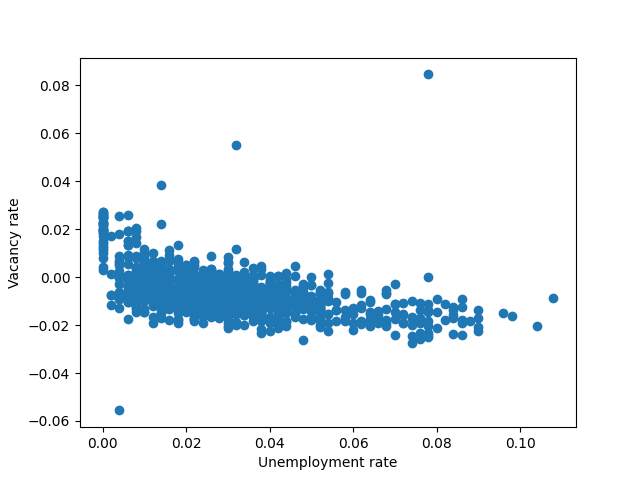
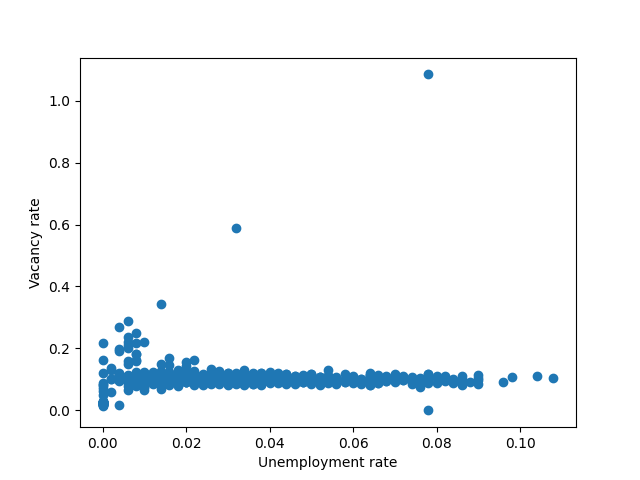
positive or 0 vacancies

diff --git a/models/BAM.py b/models/BAM.py
@@ -377,6 +377,7 @@ class BAM_base:
                 Because they can apply only to one firm per round (firm with highest) wage, they may remain unemployment although they are willing to work.
                 """ 
                 if len(f_empl) > 0: # if there are firms that have open vacancies, search and match begins
+                    vac_to_update = vac.copy() # initialize new numpy array in order to update vacancies of firms during the hiring process
 
                     """
                     Unemployed Households visit M random firms and try to sign a contract with the firm offering the highest wage out of the chosen subsample.
@@ -422,10 +423,10 @@ class BAM_base:
                             w_max = max(wages_chosen_firms)
                             f_max_id = appl_firm[wages_chosen_firms.index(w_max)] # id of the firm that offered highest wage
 
-                            current_vac = vac[f_max_id - 1] # extract current number of vacancies of firm that offers the highest wage
+                            current_vac = vac_to_update[f_max_id - 1] # extract current number of vacancies of firm that offers the highest wage
                             
                             if current_vac > 0:
-                                vac[f_max_id - 1] = current_vac - 1 # update vacancies of firm that just hired HH j
+                                vac_to_update[f_max_id - 1] = current_vac - 1 # update vacancies of firm that just hired HH j
                                 
                                 # update labor market variables
                                 is_employed[j-1] = True # updateEmploymentStatus
@@ -1083,26 +1084,10 @@ class BAM_base:
                 """ 
                 TO DO:
 
-                Consumption market
-                -  # NO UNEMPLYOMENT PAYMENT ??!!
-                - Qr set to 0 as soon everything is sold -> in the formulas !!!!
-                - if bankrupt, remove goods_purchased.. 
-                - firing worker if w_pay not enough
-                
-                Qs[f] = 0 # resetQtySold
-                Qr[f] = Qp[f] - Qs[f] # setQtyRemaining: Initialize the remaining quantity by subtracting the quantity sold (currently 0, since goods market did not open yet)
-                """
-
-                """
-                General:
-                - no HH income Y
-                - Y should be Qp, Q_des = Y_d and W_pay = W (book notation)
-                - when is wage bill subtracted ??!!
-                - in the end: check which "updating lists of each market" are really needed in the end ..  (go through everything step by step for t = 1 (&t=2))
-                - initial entry: Ld = average ??!!
-                - resetting all key lists in beginning of each market ??
-
-                - vacancies not discrete -> look weird
+                    
+                BAM plus:
+                -  build BAM_plus and see if more firms bankrupt then
+                -  dafür: class markets => each market as a function s.t. when fixing bugs in markets not have to do it twce for each model ..
 
                 Computationally more efficient
                 - using only numpy arrays: never use append and no for loops inside for loops

diff --git a/main.py b/main.py
@@ -24,24 +24,23 @@ Simulating a simple macro model with 3 Monte carlo replications. Plots are saved
 #print(toymodel_simulation)
 
 #################################################################################################
-# Simulating the BAM base model by Delli Gatti (2011)
+# Simulating the BAM base model(s) by Delli Gatti (2011)
 #################################################################################################
 
-""" intial Parameters to be estimated later"""
-#parameters = {'Nh':500, 'Nf':100, 'Nb':10, 'T':4, 
-#              'Z':2, 'M':4, 'H':2, 'H_eta': 0.1, 'H_rho':0.1, 'H_phi':0.01, 'h_xi':0.05,
-#              'c_P':1, 'c_R':0.5}
-# 'Z':2 im Buch -> bei ihm 3 !!!
-#BAM_old = BAM_base_nonrobust(MC = 1, parameters=parameters, plots=True)
-#BAM_simulation = BAM_old.simulation()
-#print(BAM_simulation)
-
-""" simulate the base model"""
+""" 
+Simulating the base model and the plus version two times (MC = 2).
+Two different kind of plots are saved into plots/BAM and plots/BAM_plus respectively. 
+Once the entire simulation (here T = 1000) and once only the last 500 observations (T-500) s.t. 
+the model(s) have time to convergence to their statistical equilibria w.r.t. to the major 
+aggregate report variables (GDP, unemployment and inflation rate). 
+"""
 BAM = BAM_base(T=1000, MC = 1, plots=True,
                Nh=500, Nf=100, Nb=10,
                H_eta=0.1, H_rho=0.1, H_phi=0.01, h_xi=0.05) 
 BAM_simulation = BAM.simulation()
 print(BAM_simulation)
+
+# simulate plus version
 
 
 #################################################################################################
@@ -95,8 +94,10 @@ loading the data and plotting the data and its components
 # Estimating the BAM model(s)
 #################################################################################################
 
-""" Idee: extra class mit function für MC plots,
-=> MC analysis "nicht" so wie in Buch, sondern analog zu MC analysis in book (pract. applications)"""
+""" 
+Idee: extra class mit function für MC plots,
+=> MC analysis "nicht" so wie in Buch, sondern analog zu MC analysis in book (pract. applications)
+"""
 
 
 #################################################################################################
